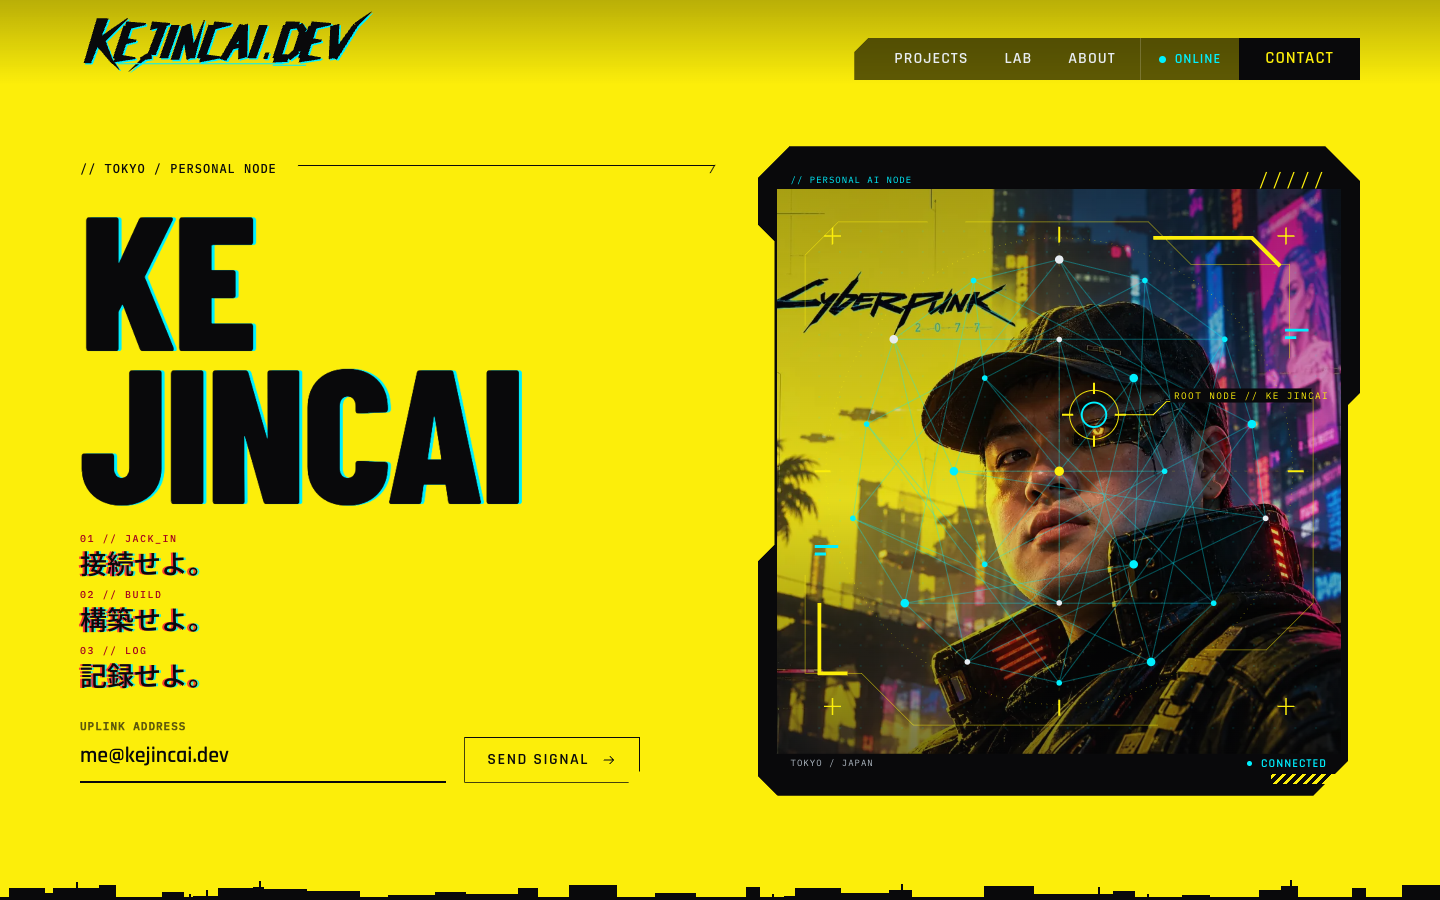
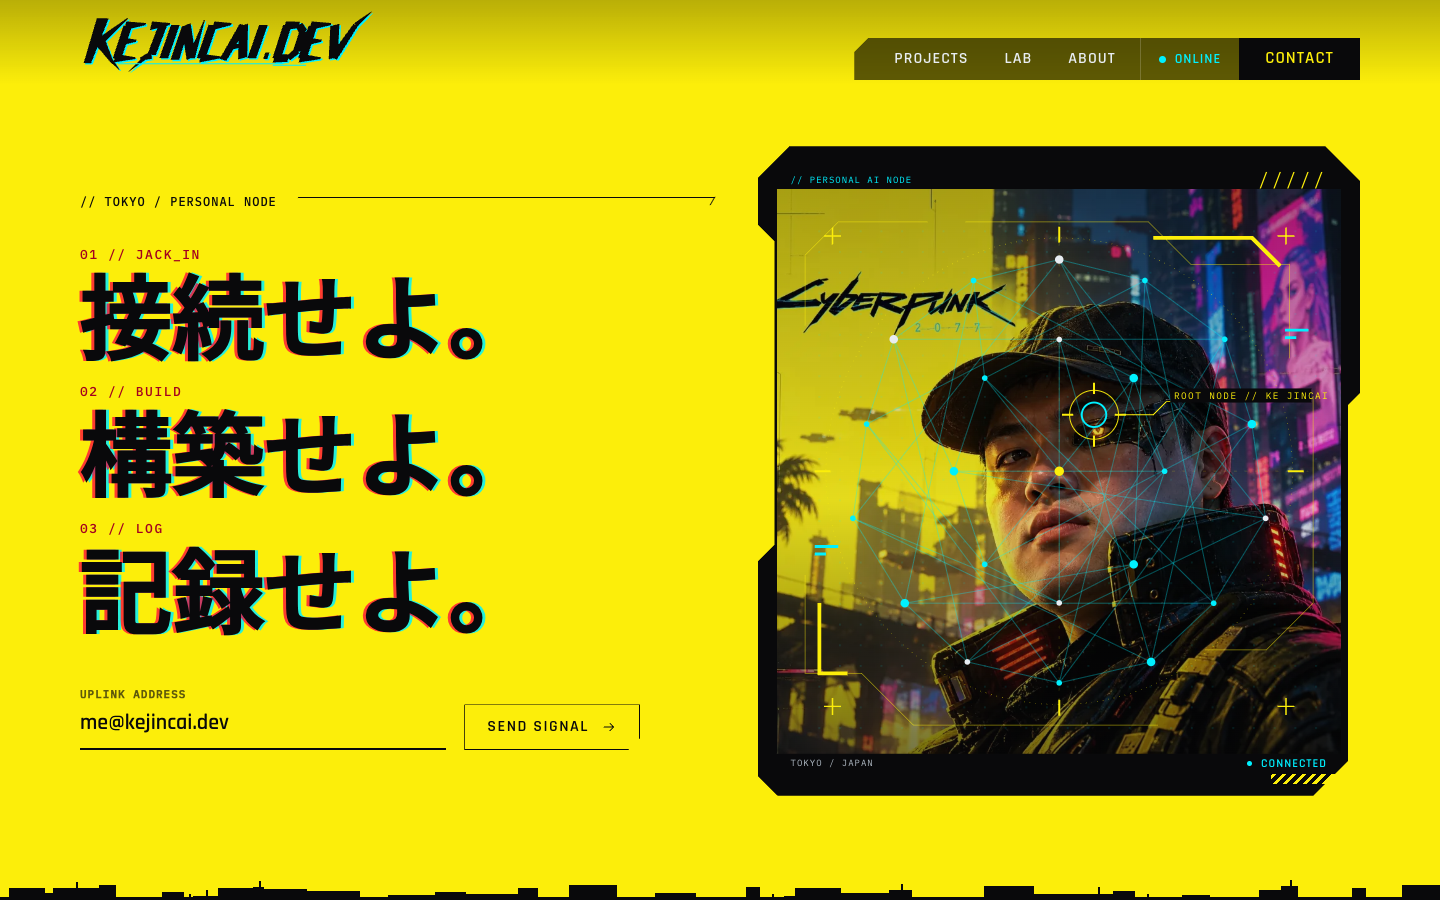
Make the directives the Home headline and cover every mailto link
- Home drops the large KE JINCAI heading; the directives become the
  headline at about 90px with their HUD tags, as in the former closing
  band. The name stays in a visually hidden h1 for search and assistive
  technology, and the header wordmark carries the visible identity.
- The mail fallback moves from the Home uplink into the layout: every
  mailto link (header CONTACT, Home uplink, footer, About ID card) copies
  the address, and if no mail app takes focus a toast offers a Gmail
  compose link. Reported for CONTACT in desktop Chrome.

Changed region(s): [[0.0312, 0.1867, 0.375, 0.56], [0.0312, 0.5911, 0.3438, 0.8711], [0.3438, 0.7778, 0.4062, 0.8711]]

diff --git a/src/styles/global.css b/src/styles/global.css
@@ -324,37 +324,6 @@ p {
   border-right: 1px solid var(--bg-main);
   height: 8px;
 }
-.hero h1 {
-  font-family: var(--font-display);
-  font-size: clamp(100px, 13.2vw, 192px);
-  font-weight: 800;
-  line-height: 0.78;
-  letter-spacing: -3px;
-  margin: 23px 0 29px;
-  text-shadow: 3px 0 var(--cyan);
-}
-.hero h1 > span {
-  display: block;
-}
-.hero h1 > span:last-child {
-  margin-top: 4px;
-}
-.hero .name-dot {
-  display: none;
-}
-.hero-meta {
-  display: flex;
-  gap: 31px;
-  align-items: center;
-  margin-bottom: 25px;
-}
-.hero-japanese {
-  font-family: 'Noto Sans JP', sans-serif;
-  font-weight: 500;
-  font-size: 27px;
-  line-height: 1.3;
-  white-space: nowrap;
-}
 .name-dot {
   color: var(--red);
 }
@@ -609,15 +578,6 @@ p {
   .hero-inner {
     gap: 24px;
   }
-  .hero h1 {
-    font-size: clamp(100px, 13.4vw, 145px);
-  }
-  .hero-meta {
-    gap: 18px;
-  }
-  .hero-japanese {
-    font-size: 23px;
-  }
 }
 @media (max-width: 760px) {
   .container {
@@ -633,17 +593,9 @@ p {
   .header-logo {
     width: 200px;
   }
-  .hero h1 {
-    font-size: 110px;
-  }
   .hero-inner {
     gap: 20px;
     grid-template-columns: 1fr 1fr;
-  }
-  .hero-meta {
-    flex-direction: column;
-    align-items: start;
-    gap: 17px;
   }
   .node-network {
     padding: 22px 9px;
@@ -687,28 +639,6 @@ p {
     font-size: 9px;
     letter-spacing: 0.7px;
     gap: 10px;
-  }
-  .hero h1 {
-    font-size: clamp(60px, 20.8vw, 110px);
-    margin: 22px 0 25px;
-    line-height: 0.82;
-    letter-spacing: -1px;
-    text-shadow: 2px 0 var(--cyan);
-    white-space: nowrap;
-  }
-  .hero h1 > span {
-    display: inline;
-  }
-  .hero h1 > span:last-child {
-    margin-top: 0;
-  }
-  .hero-meta {
-    gap: 18px;
-    margin-bottom: 21px;
-  }
-  .hero-japanese {
-    font-size: 30px;
-    line-height: 1.32;
   }
   /* Phones lead with the portrait, then the name and directives. */
   .node-network {
@@ -1787,22 +1717,6 @@ a.cp-button:focus-visible::before {
     background 0.2s,
     color 0.2s;
 }
-.uplink-status {
-  flex-basis: 100%;
-  margin-top: 4px;
-  font-size: 13px;
-  line-height: 1.7;
-}
-.uplink-status .micro {
-  margin-right: 8px;
-  color: var(--bg-main);
-  font-weight: 500;
-}
-.uplink-status a {
-  font-weight: 600;
-  text-decoration: underline;
-  text-underline-offset: 3px;
-}
 .uplink-send .arrow {
   width: 16px;
   height: 16px;
@@ -2590,4 +2504,108 @@ a.cp-button:focus-visible::before {
     grid-column: 1 / -1;
     justify-self: start;
   }
+}
+
+/* Home: the directives are the headline; the name stays for assistive
+   tech and search in a visually hidden h1. */
+.visually-hidden {
+  position: absolute;
+  width: 1px;
+  height: 1px;
+  margin: -1px;
+  padding: 0;
+  overflow: hidden;
+  clip-path: inset(50%);
+  white-space: nowrap;
+  border: 0;
+}
+.hero-directives {
+  margin: 34px 0 44px;
+  font-family: 'Noto Sans JP', sans-serif;
+  font-size: clamp(56px, 6.4vw, 96px);
+  font-weight: 700;
+  line-height: 1.08;
+  white-space: nowrap;
+}
+.hero-directives .directive + .directive {
+  margin-top: 14px;
+}
+.hero-directives .directive-tag {
+  margin-bottom: 4px;
+  font-size: 13px;
+}
+.hero-directives .directive-text {
+  text-shadow:
+    -3px 0 rgba(255, 0, 60, 0.75),
+    3px 0 rgba(0, 240, 255, 0.85);
+}
+@media (max-width: 639px) {
+  .hero-directives {
+    margin: 22px 0 32px;
+    font-size: clamp(44px, 14.5vw, 60px);
+  }
+  .hero-directives .directive + .directive {
+    margin-top: 8px;
+  }
+  .hero-directives .directive-tag {
+    font-size: 11px;
+  }
+}
+
+/* Mail fallback toast for browsers without a mail app. */
+.mail-toast {
+  position: fixed;
+  z-index: 40;
+  left: 50%;
+  bottom: 24px;
+  display: flex;
+  align-items: flex-start;
+  gap: 16px;
+  width: min(560px, calc(100% - 32px));
+  padding: 16px 18px;
+  transform: translateX(-50%);
+  background: var(--bg-main);
+  color: var(--text-main);
+  border: 2px solid var(--yellow);
+  box-shadow: 0 12px 32px rgba(0, 0, 0, 0.45);
+  clip-path: polygon(
+    0 0,
+    100% 0,
+    100% calc(100% - 12px),
+    calc(100% - 12px) 100%,
+    0 100%
+  );
+}
+.mail-toast[hidden] {
+  display: none;
+}
+.mail-toast p {
+  display: grid;
+  gap: 6px;
+  font-size: 14px;
+  line-height: 1.7;
+}
+.mail-toast .micro {
+  color: var(--yellow);
+  overflow-wrap: anywhere;
+}
+.mail-toast a {
+  color: var(--cyan);
+  text-decoration: underline;
+  text-underline-offset: 3px;
+}
+.mail-toast-close {
+  flex: none;
+  width: 32px;
+  height: 32px;
+  border: 1px solid var(--border);
+  background: none;
+  color: var(--text-muted);
+  font-size: 18px;
+  line-height: 1;
+}
+.mail-toast-close:hover,
+.mail-toast-close:focus-visible {
+  border-color: var(--cyan);
+  color: var(--cyan);
 }

diff --git a/docs/CONTENT.md b/docs/CONTENT.md
@@ -10,7 +10,7 @@ Edit `src/data/portfolio.ts`. The owner selected twelve public repositories in t
 
 Each record contains the exact repository slug, display name, platform / technology tags and a short description. Check the current public README before changing a description. Group membership is editorial; do not infer release readiness or maintenance status from it.
 
-Home is a single screen: the hero with the portrait radar (shown first on phones), the directives and a mailto uplink row, then the footer. The hero carries no self-applied role or skill labels. `mailto:` does nothing when a visitor has no mail app, so clicking the uplink also copies the address and, if focus never leaves the page, reveals a note with a Gmail compose link. Other pages are reached from the header tabs and the footer links; Home has no numbered sections. Projects features only Infinity New Tab, Disk Ferry and Safe Clip, as a yellow poster module modelled on the cyberpunk.net product row (`src/components/ProjectPosters.astro`, with `SkylineEdge.astro` section edges); each poster links to its full-width system dossier on Projects (`src/components/ProjectDossier.astro`, anchored by repository slug). Their extra fields — `system`, `metric`, `log`, `specs` and `release` — must be concrete facts from the README or release tags (versions, parameters, guarantees), never stars, download counts or invented status. Lab lists the remaining nine projects in two groups under a yellow index band: each group keeps its `title` and `description` from the data as a section heading, and each project is a compact card with an `EXP_` or `UTL_` code, name, description and tags. They do not get posters, dossiers or status filters. Counts derive from the data. Cards and list rows link directly to the owner's public repositories. RSS uses these records without inventing original release dates.
+Home is a single screen: the hero with the portrait radar (shown first on phones), the directives set large as the headline, and a mailto uplink row, then the footer. The name KE JINCAI is kept in a visually hidden `h1` for search and assistive technology; the visible identity is the header wordmark. The hero carries no self-applied role or skill labels. `mailto:` does nothing when a visitor has no mail app, so every mailto link on the site (header CONTACT, Home uplink, footer, About ID card) also copies the address, and if focus never leaves the page a toast offers a Gmail compose link (`src/components/MailFallback.astro`). Other pages are reached from the header tabs and the footer links; Home has no numbered sections. Projects features only Infinity New Tab, Disk Ferry and Safe Clip, as a yellow poster module modelled on the cyberpunk.net product row (`src/components/ProjectPosters.astro`, with `SkylineEdge.astro` section edges); each poster links to its full-width system dossier on Projects (`src/components/ProjectDossier.astro`, anchored by repository slug). Their extra fields — `system`, `metric`, `log`, `specs` and `release` — must be concrete facts from the README or release tags (versions, parameters, guarantees), never stars, download counts or invented status. Lab lists the remaining nine projects in two groups under a yellow index band: each group keeps its `title` and `description` from the data as a section heading, and each project is a compact card with an `EXP_` or `UTL_` code, name, description and tags. They do not get posters, dossiers or status filters. Counts derive from the data. Cards and list rows link directly to the owner's public repositories. RSS uses these records without inventing original release dates.
 
 ## Independent websites
 
